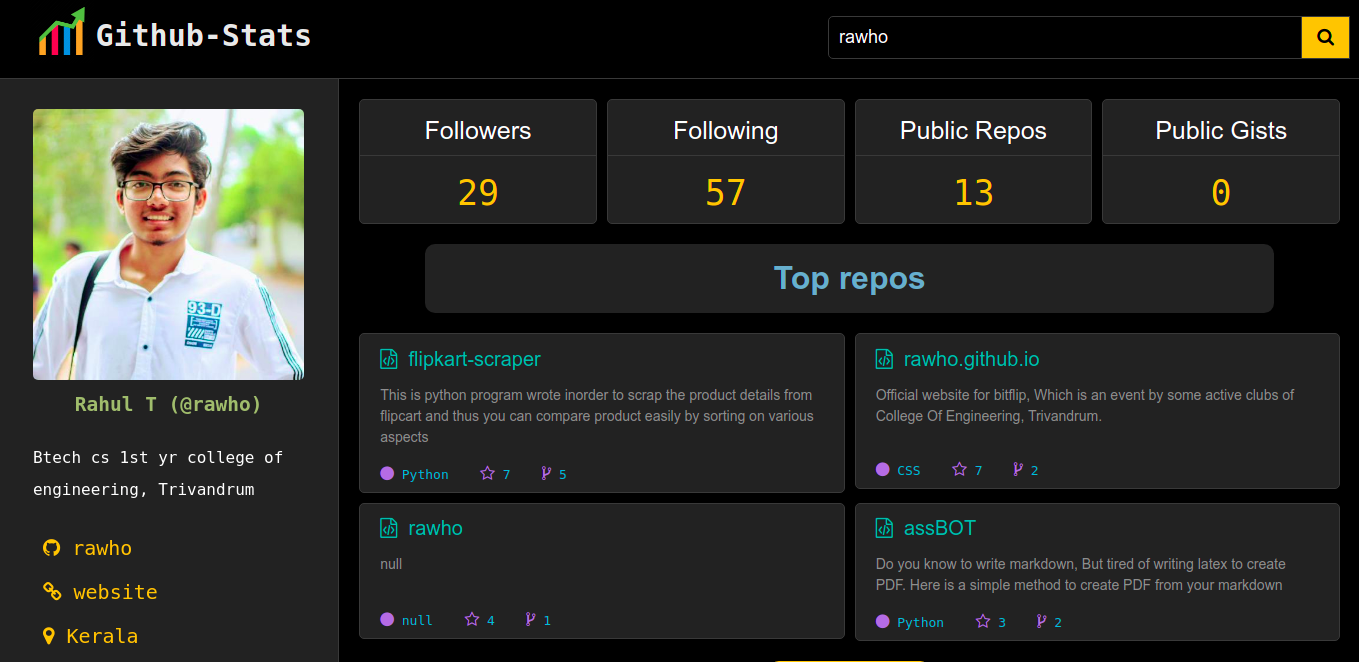
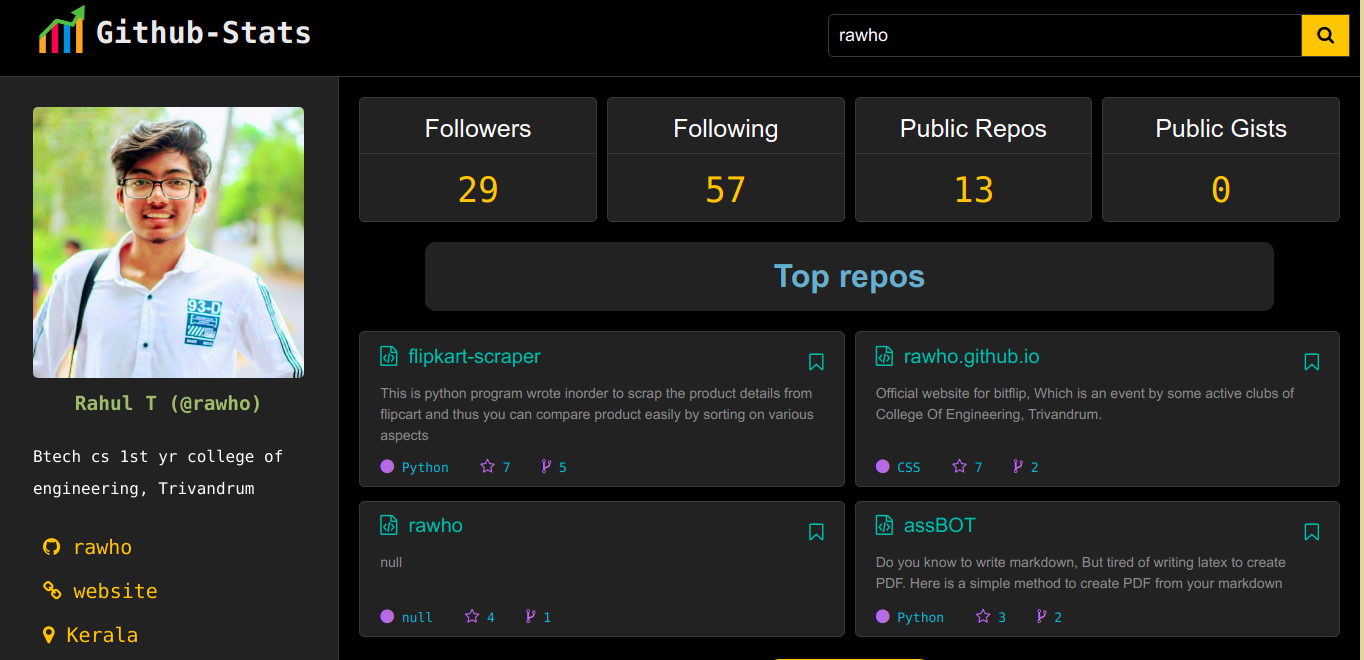
update

diff --git a/js/main.js b/js/main.js
@@ -43,10 +43,13 @@ async function getData() {
             if(a.target.innerText == "More Repos"){
                 showmore(repos_list)
                 a.target.innerText = "Less Repos"
+                addToFavourite()
+                
             }
             else if(a.target.innerText == "Less Repos"){
                 showless(repos_list_short)
                 a.target.innerText = "More Repos"
+                addToFavourite()
             }
         })
         
@@ -80,6 +83,7 @@ async function getData() {
         public_gists_count.innerText = json.public_gists
 
 
+        addToFavourite()
 
         
 
@@ -93,7 +97,7 @@ async function getData() {
             
           })
     }
-
+    
     
     
     
@@ -125,9 +129,13 @@ function showless(repos_list_short){
         for( let i=0; i<repos_list_short.length; i++){
 
             repoContainer.innerHTML += `
-            <a id="link1" href="${repos_list_short[i].html_url}">
+            
                 <div class="repo" id="1">
-                    <h1 id="repo_title_1"><em class="fa fa-file-code-o"></em>&nbsp; ${repos_list_short[i].name}</h1>
+                    <a id="link" href="${repos_list_short[i].html_url}">
+                        <h1 id="repo_title_1"><em class="fa fa-file-code-o"></em>&nbsp; ${repos_list_short[i].name} 
+                    </a>    
+                        <div class="favorite" ><em class="fav fa fa-bookmark-o"></em> </div></h1>
+                    
                     <p id="repo_desc_1">${repos_list_short[i].description}</p>
                     <div class="stats">
                         <em class="fa fa-circle"></em> <span id="lang1">${repos_list_short[i].language}</span> &nbsp;&nbsp;
@@ -135,7 +143,7 @@ function showless(repos_list_short){
                         <em class="fa fa-code-fork"></em> <span id="fork1">${repos_list_short[i].forks_count}</span> 
                     </div>
                 </div>
-            </a>
+            
             `
         }
 }
@@ -146,17 +154,19 @@ function showmore(repos_list){
     for( let i=0; i<repos_list.length; i++){
 
         repoContainer.innerHTML += `
-        <a id="link1" href="${repos_list[i].html_url}">
-            <div class="repo" id="1">
-                <h1 id="repo_title_1"><em class="fa fa-file-code-o"></em>&nbsp; ${repos_list[i].name}</h1>
-                <p id="repo_desc_1">${repos_list[i].description}</p>
-                <div class="stats">
+        <div class="repo" id="1">
+            <a id="link" href="${repos_list[i].html_url}">
+                <h1 id="repo_title_1"><em class="fa fa-file-code-o"></em>&nbsp; ${repos_list[i].name} 
+            </a>    
+                <div class="favorite" ><em class="fav fa fa-bookmark-o"></em> </div></h1>
+            
+            <p id="repo_desc_1">${repos_list[i].description}</p>
+            <div class="stats">
                 <em class="fa fa-circle"></em> <span id="lang1">${repos_list[i].language}</span> &nbsp;&nbsp;
                 <em class="fa fa-star-o"></em> <span id="stars1">${repos_list[i].stargazers_count}</span> &nbsp;&nbsp;
-                    <em class="fa fa-code-fork"></em> <span id="fork1">${repos_list[i].forks_count}</span> 
-                </div>
+                <em class="fa fa-code-fork"></em> <span id="fork1">${repos_list[i].forks_count}</span> 
             </div>
-        </a>
+        </div>
         `
     }
 }

diff --git a/index.html b/index.html
@@ -8,7 +8,7 @@
 
 
     <!-- stylesheets -->
-    <link rel="stylesheet" href="style.css">
+    <link rel="stylesheet" href="css/style.css">
     <link rel="stylesheet" href="https://stackpath.bootstrapcdn.com/font-awesome/4.7.0/css/font-awesome.min.css" integrity="sha384-wvfXpqpZZVQGK6TAh5PVlGOfQNHSoD2xbE+QkPxCAFlNEevoEH3Sl0sibVcOQVnN" crossorigin="anonymous">
     <link href="https://cdn.jsdelivr.net/npm/@sweetalert2/theme-dark@4/dark.css" rel="stylesheet">
 
@@ -33,7 +33,7 @@
     <div class="container">
         <div class="header">
             <div class="logo">
-                <a href=""><img src="logo.png" alt=""></a>
+                <a href=""><img src="img/logo.png" alt=""></a>
                 <h1>Github-Stats</h1>
             </div>
             <div class="search">
@@ -43,7 +43,7 @@
         </div>
         <div class="sidebar sticky">
             <div class="dp">
-                <img src="pro-pic.JPG" alt="" id="dp">
+                <img src="img/pro-pic.JPG" alt="" id="dp">
                 <h2 id="name">Rahul T (@rawho)</h2>
                 <p id="bio">Btech cs 1st yr college of engineering, Trivandrum. Btech cs 1st yr college of engineering, Trivandrum</p>
             </div>
@@ -92,7 +92,8 @@
     </div>
 
 
-    <script src="main.js"></script>
+    <script src="js/main.js"></script>
+    <script src="js/fav.js"></script>
     <script src="https://cdn.jsdelivr.net/npm/sweetalert2@10/dist/sweetalert2.min.js"></script>
 </body>
 </html>

diff --git a/js/fav.js b/js/fav.js
@@ -1,0 +1,19 @@
+function addToFavourite() {
+    let favourites = document.querySelectorAll(".fav")
+
+    for(let i=0; i<favourites.length; i++){
+        favourites[i].addEventListener("click", e => {
+            if(e.target.classList.contains("fa-bookmark-o")){
+                e.target.classList.remove('fa-bookmark-o')
+                e.target.classList.add('fa-bookmark')
+            }
+            else{
+                e.target.classList.add('fa-bookmark-o')
+                e.target.classList.remove('fa-bookmark')
+            }
+        })
+        
+    }
+
+}
+

diff --git a/css/style.css b/css/style.css
@@ -209,8 +209,9 @@ body{
     margin: 20px;
 }
 
-.main .repo-container a{
+#link{
     text-decoration: none;
+    color: rgb(26, 180, 173);
 }
 
 .main .repo-container .repo {
@@ -229,6 +230,13 @@ body{
     font-weight: 200;
     font-family: sans-serif;
     font-size: 20px;
+}
+
+.favorite{
+    position: absolute;
+    right: 20px;
+    top: 20px;
+    cursor: pointer;
 }
 
 .main .repo-container .repo p{

diff --git a/README.md b/README.md
@@ -1,12 +1,21 @@
 <p align="center">
  <img width="100%" src="img/og-githubstats.png" align="center" alt="GitHub Readme Stats" />
- <h2 align="center">GitHub Stats</h2>
+ <h2 align="center" style="color:#ffc107;">GitHub Stats</h2>
  <p align="center">Get the details of the developers at your fingertips</p>
 </p>
 
 # Features
 - You can search for any user in the github and get their details
+- Bookmark other repos for later reference (On Development stage)
 
-# ScreenShots
+# ScreenShot
 ![screen shot of demo of githubstats](img/screenshot.png)
 
+
+# Future Plans
+- [ ] Add a chart for the contributions of the user
+- [ ] Bookmark functionality
+    - bookmark data can be stored in the local storage of browser
+
+<p align="center" style="font-size:20px"> Contributions are Welcome </p>
+<center><img style="width: 300px" src="img/coding.gif"></center>
